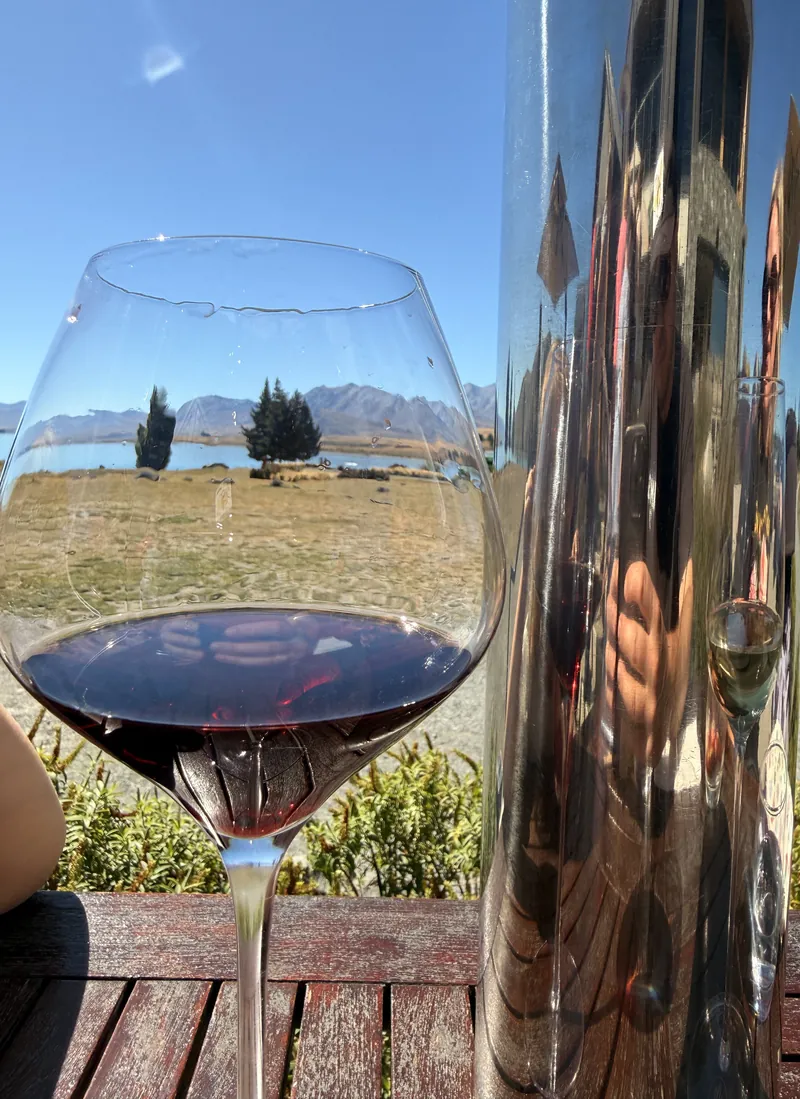
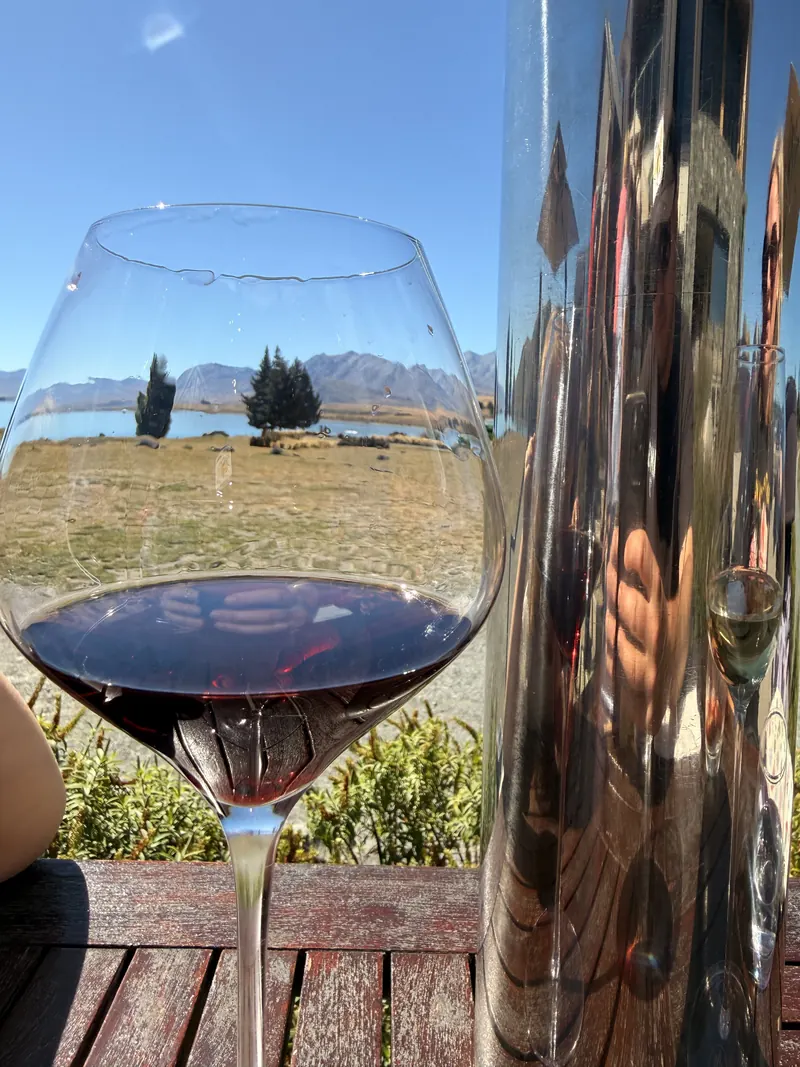
About: eight of his photos in two rows with real gaps, each whole (owner pick B)
Glass, vines, castle, bottles, then whites, valley, canal, lake. Columns
follow each photo's own ratio so a row shares one height; on a phone the
upright photos pair up and the wide ones run full width. The glass photo
loses a sliver of sky at the top with the bystander at its left edge so
it matches the 3:4 photos.

Claude-Session: https://claude.ai/code/session_01GufJL9KVoJQMTw2uSXyi5B

diff --git a/about/index.html b/about/index.html
@@ -55,12 +55,20 @@
           <!-- feedback link: owner to choose the address -->
         </div>
       </section>
-      <!-- photos keep their own shape (owner, 19 Oct 2026, twice: never crop his photos into fixed tiles); one row, column widths in the photos' own width/height ratios, so every photo is whole and the row shares one height -->
+      <!-- photos keep their own shape (owner, 19 Oct 2026, twice: never crop his photos into fixed tiles); two rows, columns sized by each photo's own width/height ratio, so every photo is whole and a row shares one height (owner pick B, 19 Oct 11:21Z); phone: upright photos in pairs, wide ones full width -->
       <section class="wrap photos" aria-label="Photos">
-        <img class="p-castle" src="/about/castle.webp" width="1200" height="900" loading="lazy" alt="Autumn vineyard rows in yellow leaf below a ruined castle on a hill" />
-        <img src="/about/glass.webp" width="800" height="1099" loading="lazy" alt="A glass of red wine on a wooden table, a lake and mountains behind it" />
-        <img src="/about/vines.webp" width="800" height="1067" loading="lazy" alt="Rows of netted vines under a clear blue sky" />
-        <img src="/about/bottles.webp" width="800" height="1067" loading="lazy" alt="Three wine bottles on a balcony rail, green hills and mountains behind them" />
+        <div class="prow r1">
+          <img src="/about/glass.webp" width="800" height="1067" loading="lazy" alt="A glass of red wine on a wooden table, a lake and mountains behind it" />
+          <img src="/about/vines.webp" width="800" height="1067" loading="lazy" alt="Rows of netted vines under a clear blue sky" />
+          <img class="wide" src="/about/castle.webp" width="1200" height="900" loading="lazy" alt="Autumn vineyard rows in yellow leaf below a ruined castle on a hill" />
+          <img src="/about/bottles.webp" width="800" height="1067" loading="lazy" alt="Three wine bottles on a balcony rail, green hills and mountains behind them" />
+        </div>
+        <div class="prow r2">
+          <img src="/about/whites.webp" width="800" height="1067" loading="lazy" alt="Two glasses of white wine beside a bottle on a sunny garden table" />
+          <img class="wide" src="/about/valley.webp" width="1400" height="743" loading="lazy" alt="A wide valley of vineyards under a blue sky, wooded hills behind" />
+          <img src="/about/canal.webp" width="800" height="1067" loading="lazy" alt="A glass of white wine held up on a canal-side terrace, brick houses behind" />
+          <img src="/about/lake.webp" width="800" height="1067" loading="lazy" alt="A winery sign on a lawn above a lake, mountains behind" />
+        </div>
       </section>
       <section class="wrap" aria-labelledby="trace-h"><div class="trace">
         <h2 id="trace-h">Where the facts come from</h2>

diff --git a/src/home/about.css b/src/home/about.css
@@ -6,8 +6,11 @@
 /* his photos keep their own shape (owner, 19 Oct 2026): no object-fit crops, no fixed tiles; each column's fr = that photo's width/height, so the row shares one height */
 .ab img{display:block;width:100%;height:auto;background:var(--bg2)}
 .ab .me{border-radius:6px}
-.photos{display:grid;grid-template-columns:1.3333fr .728fr .75fr .75fr;gap:2px;padding-block:0 4.5rem}
-.photos img:first-child{border-radius:6px 0 0 6px}.photos img:last-child{border-radius:0 6px 6px 0}
+.photos{display:grid;gap:14px;padding-block:0 4.5rem}
+.prow{display:grid;gap:14px;align-items:start}
+.r1{grid-template-columns:.75fr .75fr 1.3333fr .75fr}
+.r2{grid-template-columns:.75fr 1.8843fr .75fr .75fr}
+.photos img{border-radius:6px}
 .note{display:grid;gap:.7rem}
 .note p{font-family:var(--serif);font-size:1.55rem;line-height:1.45;color:var(--ink);letter-spacing:-.01em}
 .ab .sign{margin-top:2.25rem;padding-top:1.25rem;border-top:2px solid var(--foil);width:max-content;font-family:var(--serif);font-style:italic;font-size:1.35rem;color:var(--ink)}
@@ -39,9 +42,9 @@
 @media (max-width:900px){
   .letter{grid-template-columns:minmax(0,1fr);gap:2rem;padding-block:2rem 3rem}
   .ab .me{max-width:420px}
-  .photos{grid-template-columns:.728fr .75fr .75fr;padding-bottom:3rem}
-  .photos .p-castle{grid-column:1/-1;border-radius:6px 6px 0 0}
-  .photos img:nth-child(2){border-radius:0 0 0 6px}.photos img:last-child{border-radius:0 0 6px 0}
+  .photos{grid-template-columns:1fr 1fr;gap:8px;padding-bottom:3rem}
+  .prow{display:contents}
+  .photos .wide{grid-column:1/-1}
   .note p{font-size:1.3rem}
   .trace{padding-block:3rem}
   .trace h2{font-size:1.6rem}

diff --git a/data/SOURCES.md b/data/SOURCES.md
@@ -19,7 +19,7 @@ One entry per file in `data/`. `Tools/check.sh` fails if a committed data file h
 | `added-boundaries.geojson` | Polygons: IGN, «AU Unidades administrativas», OGC API `https://api-features.ign.es/collections/administrativeunit/items` (queried by box). Lists: `added-municipalities.json`. Urbezo: Dirección General del Catastro, INSPIRE cadastral parcels WFS `https://ovc.catastro.meh.es/INSPIRE/wfsCP.aspx` (stored query GetParcel), parcels from `added-parcels.json`. | see the build commit | IGN, CC BY 4.0. Attribution: «CC-BY 4.0 ign.es»; Urbezo: DG del Catastro, CC BY 4.0 (INSPIRE metadata record ES_SDGC_CP), attribution «DG del Catastro» | Built by `Tools/data/build_boundaries.py`, `Tools/data/build_parcels.py` (Urbezo: parcels dissolved in UTM 30N, holes filled) and `Tools/data/remote_build.sh` in GitHub Actions: each listed name matched to one municipality of the right province (articles and accents ignored; the build fails on any miss), dissolved per place with SQLite `ST_Union`, simplified 0.0005° (about 50 m), 5 decimals, RFC 7946. Fields: `id` (place id in `places.json`), `municipalities`, `km2` (ETRS89 UTM 30N area). |
 | `photos.json` and `public/photos/*.webp` | Wikimedia Commons, one file page per photo (URL, author, licence in each entry of `photos.json`) | per entry | Per photo: public domain, CC0, CC BY or CC BY-SA, as named in its entry; the place card shows the credit and licence | Candidates from `Tools/data/photo_candidates.py` (GitHub Actions), picked by LeadBot from per-region contact sheets (polish slice: a `cats` pass over hand-picked Commons categories for the quizzed places still empty, `Review/sources/photo-candidates-cats.json`) (`Review/sources/photo-picks.json`), resized to about 1200 px WebP (decision #44). Originals stay on Commons. Order: `rioja-1` and `rioja-2` swapped on 18 Oct 2026 so Rioja leads with vines, not a road (site visual review). Green Spain photo fix, 19 Oct 2026 (audit): cangas-1, monterrei-3, ribeira-sacra-2, valdeorras-2, rias-baixas-2/3 and txakoli-bizkaia-2 replaced with vineyard or in-DO pictures; txakoli-alava-1 and -2 added; alt texts written by hand for the nine Green Spain places. |
 | `photo-sizes.json` and `public/photos/{160,480,800}/*.webp` | Made from `public/photos/*.webp` (the row above), nothing fetched | 2026-10-18 | As each photo in `photos.json`; the credit shown is the original's | Built by `Tools/data/photo_sizes.py` (polish pack): copies 160, 480 and 800 px wide (WebP quality 70, only when the photo is wider) so small frames load small files, and per photo its full width and height and a 16 px wide WebP preview (base64) that the app blurs while the photo loads. Also run by the photo workflow after each ship. |
-| `public/about/*.webp` | Owner's own photos, supplied 19 Oct 2026, all rights reserved (NOTICE.md) | 2026-10-19 | All rights reserved (NOTICE.md), not open data | The About page letter: his portrait and four of his wine photos, cropped and resized to WebP (600 to 1000 px wide), EXIF and GPS metadata stripped. |
+| `public/about/` photos (`djoeri`, `castle`, `glass`, `vines`, `bottles`, `whites`, `valley`, `canal`, `lake`) | Owner's own photos, supplied 19 Oct 2026, all rights reserved (NOTICE.md) | 2026-10-19 | All rights reserved (NOTICE.md), not open data | The About page letter: his portrait and eight of his wine photos, each whole at its own aspect ratio (only bystander slivers at an edge trimmed), resized to WebP (800 to 1400 px wide), EXIF and GPS metadata stripped. |
 | `place-measures.json` | Measured from files already listed here: the place boundaries (`dops.geojson` with `dop-overrides.json`, `added-boundaries.geojson`, `rioja-zones.geojson`), `koppen-spain.geojson`, and the Mapzen Terrarium elevation tiles on AWS Open Data (`https://s3.amazonaws.com/elevation-tiles-prod/terrarium/10/{x}/{y}.png`, 442 tiles at zoom 10) | 2026-10-16 | Inherits its inputs: Köppen-Geiger CC BY 4.0 (credit as for `koppen-spain.geojson`); elevation Mapzen terms (SRTM, EU-DEM and others, as the terrain row below); boundaries © MAPA as above | Built by `Tools/data/measure_places.py` for the 96 places with a boundary (the 79 quizzed places, 70 core, 6 VC, 3 Rioja zones, plus 17 not quizzed: Cava, Catalunya, Islas Canarias and 14 Vinos de Pago; re-run 17 Oct 2026 for the map's climate colours, #50; the 13 Vinos de Pago still waiting for a boundary, #18, are skipped). The map colours each place by its largest class (`src/map/climate.ts`). Altitude: a grid of points about 1 km apart inside the boundary (at most 6000; a dense 400-point grid for very small places), elevation from the tile pixel, sea points dropped; 10th, 50th and 90th percentiles rounded to 10 m. It describes the land inside the boundary, not only vineyards. Köppen: share of the boundary's area per class, classes under 5% dropped. The Spain row (all of Spain's land, from `spain-mask.json`) and the study-region rows (union of a region's appellation-level places, zones left out) use the same method, for comparisons. |
 | `../content/curriculum.json` | WSET Level 3 Award in Wines Specification, Issue 2 (May 2022), https://www.wsetglobal.com/media/11731/wset_l3wines_specification_en_highres_may2022_issue2.pdf; WSET Level 2 Award in Wines Specification, Issue 2.1 (April 2026), https://www.wsetglobal.com/media/19132/wset_l2wines_specification_en_april2026_issue21.pdf | 2026-10-18 | © WSET; only which Spanish place names each specification lists, never its text | Drives the "WSET Level N" badge on a guide (owner point 12). Level 3: 19 places (17 still-wine appellations, Cava, and Jerez, which the specifications call Sherry); Level 2: 8 of them. Castilla y León VdlT is listed but has no place here. Zones and Vinos de Pago are not listed, so they get no badge. The Wine Scholar badge is the study region itself (`places.json`). |
 | `public/share.jpg` (link-preview image, not data) | The home page's hero, `public/home/hero.webp` (row below) | 2026-10-18 | As its input; credit printed on the image: «Imagery: Esri, Maxar · Spain: PNOA © IGN» | Built by `Tools/share/make_share_image.py` (website slice 2: tagline on white, the atlas on satellite; logo from `src/app/TopBar.tsx`), rendered at 1200×630 with Playwright, saved as JPEG (about 120 KB). The 17 Oct card (`share.png`) drew `dops.geojson` and Natural Earth. |

diff --git a/Review/release-43-what-to-test.md b/Review/release-43-what-to-test.md
@@ -6,9 +6,9 @@ Open https://atlaslope.com/ in Chrome or Safari on a Mac or iPad. Reload once wi
 ## This release
 1. **The Guides page is a landing page.** It opens with "Guides explain why each place tastes the way it does." Rioja is featured with three photos and its In short.
 2. **Every region has a row.** Each row opens with a satellite view of the region. Every guide is a card with a photo and its opening line, and each card opens that guide in the atlas.
-3. **The About page is your letter, under a big "About" title.** Your portrait sits beside your note, whole. Your four wine photos follow in one row, each whole at its own shape.
-5. **"Where the facts come from" is a source chain.** One Rioja sentence, then the pliego page and the EU document page with the backing passage marked, then the satellite map with the boundary. The two page captions open the real documents.
+3. **The About page is your letter, under a big "About" title.** Your portrait sits beside your note, whole. Eight of your wine photos follow in two rows, each whole at its own shape.
 4. **The home hero.** The Spain tag is back under the buttons. There are four numbers, including the guide count. "Free" reads "to use, no account". The map credit is one small line.
+5. **"Where the facts come from" is a source chain.** One Rioja sentence, then the pliego page and the EU document page with the backing passage marked, then the satellite map with the boundary. The two page captions open the real documents.
 
 ## For you
 PR #114 from `claude/guides-landing-1fy69k`. The Guides cards and both counts are filled in at build time from `content/guides/`, so a release that adds guides updates them with no extra step. A new region shows without a satellite view until one is added to `public/guides/`. Handoff `docs/handoffs/2026-10-19-guides-landing.md`. ReviewBot `Review/pr-114-review.md` and `Review/pr-114-review-2.md`.
